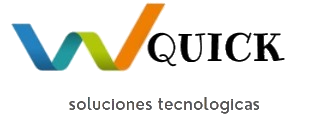
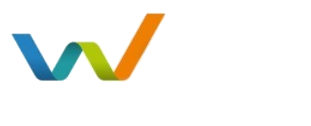
modificaci´on styles.css

Changed region(s): [[0.0289, 0.0259, 0.926, 0.6466], [0.2026, 0.8276, 0.8392, 0.9828]]

diff --git a/WQuick/app/usuarios/templates/usuarios/registrar.html b/WQuick/app/usuarios/templates/usuarios/registrar.html
@@ -12,17 +12,17 @@
    <div class="container-fluid center" style="padding-top: 2%;padding-bottom: 3%;">
       <div class="row">
          <div class="col s12 m6 offset-m3 l10 offset-l1 xl6 offset-xl3">
-            <div class="card white">
-               <div class="white">
-                  <span class="card-title black-text">
+            <div class="card">
+               <div>
+                  <span class="card-title">
                      <br>
                      <a href="/">
                         <div class="card-imag responsive-img">
-                           <img src="{% static 'img/Logo-large.jpeg' %}" alt="imagen dañada" style="width: 50%; max-width: 250px;">
+                           <img src="{% static 'img/transparencia.png' %}" alt="imagen dañada" style="width: 50%; max-width: 250px;">
                         </div>
                      </a>
 
-                     <span style="color: #000;font-size: 20px;font-weight: bold;">
+                     <span style="color: white;font-size: 20px;font-weight: bold;">
                         Regístrate
                      </span>
                   </span>
@@ -41,7 +41,7 @@
                         </div>
                         {% endif %}
                         <div class="col s3">
-                           <label style="color: #000;font-family: fuente1;font-size: 18px; font-weight: bold;">Nombre</label>
+                           <label style="color: white;font-family: fuente1;font-size: 18px; font-weight: bold;">Nombre</label>
                         </div>
                         <div class="col s9">
                            {{form.nombre}}
@@ -56,7 +56,7 @@
                         </div>
                         {% endif %}
                         <div class="col s3">
-                           <label style="color: #000;font-family: fuente1;font-size: 18px; font-weight: bold;">Correo</label>
+                           <label style="color: white;font-family: fuente1;font-size: 18px; font-weight: bold;">Correo</label>
                         </div>
                         <div class="col s9">
                            {{form.correo}}
@@ -66,7 +66,7 @@
                      <div class="row">
                         <div class="col s3">
                            <label for="txt_clave"
-                              style="color: #000;font-family: fuente1;font-size: 18px; font-weight: bold;">Contraseña</label>
+                              style="color: white;font-family: fuente1;font-size: 18px; font-weight: bold;">Contraseña</label>
                         </div>
                         <div class="col s9">
                            {{form.password1}}
@@ -81,7 +81,7 @@
                         </div>
                         {% endif %}
                         <div class="col s3">
-                           <label style="color: #000;font-family: fuente1; font-size: 18px; font-weight: bold;">Confirmar Contraseña</label>
+                           <label style="color: white;font-family: fuente1; font-size: 18px; font-weight: bold;">Confirmar Contraseña</label>
                         </div>
                         <div class="col s9">
                            {{form.password2}}
@@ -93,7 +93,7 @@
                      </div>
                      <div>
                         <label for="chk_terminos">
-                           <input class="filled-in" type="checkbox" id="chk_terminos">
+                           <input class="" type="checkbox" id="chk_terminos">
                            <span><a href="" style="font-weight: bold;">Aceptar terminos y condiciones del servicio</a></span>
                         </label>
                      </div>

diff --git a/WQuick/app/usuarios/templates/usuarios/login.html b/WQuick/app/usuarios/templates/usuarios/login.html
@@ -11,13 +11,13 @@
 
    <div class="Centro">
 
-      <div class="Sombras FondoBlanco">
+      <div class="Sombras FondoBlanco" style="background-color: #424242;">
          <a href="/">
             <div style="text-align: center;">
-               <img src="../../../static/img/transparencia.png" style="width: 40%;">
+               <img src="{% static 'img/transparencia.png' %}" style="width: 40%;">
             </div>
          </a>
-         <span style="color: #000;font-size: 20px;font-weight: bold;">
+         <span style="color: white;font-size: 20px;font-weight: bold;">
             Iniciar Sesión
          </span><br>
          <div class="Bajar">
@@ -41,13 +41,13 @@
 
                   <table style="border-collapse: inherit;">
                      <tr>
-                        <th><label style="color: #000;font-size: 15px;">Usuario o correo</label></th>
+                        <th><label style="color:white;font-size: 15px;">Usuario o correo</label></th>
                         <th>
                            {{ form.username }}
                         </th>
                      </tr>
                      <tr>
-                        <th><label style="color: #000;font-size: 15px;">Contraseña</label></th>
+                        <th><label style="color: white;font-size: 15px;">Contraseña</label></th>
                         <th>
                            {{ form.password }}
                         </th>

diff --git a/WQuick/app/app/templates/frames/navbar.html b/WQuick/app/app/templates/frames/navbar.html
@@ -1,5 +1,5 @@
 {% load static %}
-<div class="navbar-fixed">
+<div class="navbar-fixed" style="overflow: hidden;">
     <nav class="nav-wrapper black">
         <div class="nav-wrapper" style="margin-left: 20px; margin-right: 20px;">
             <a href="/" id="logo" class="left">

diff --git a/WQuick/app/usuarios/forms.py b/WQuick/app/usuarios/forms.py
@@ -19,11 +19,11 @@ class FrmRegistar(UserCreationForm):
     #    -  admin: contiene el valor booleano para el administrador
     password1 = forms.CharField(widget=forms.PasswordInput())
     password1.widget.attrs['id'] = 'txt_clave'
-    password1.widget.attrs['style'] = 'margin-left:17px; border-radius: 2px;width: 77%;border: 1px solid #000;height: 5vh;'
+    password1.widget.attrs['style'] = 'background-color: #212121; margin-left:17px; border-radius: 2px;width: 77%;border: 1px solid #000;height: 5vh;'
 
     password2 = forms.CharField(widget=forms.PasswordInput())
     password2.widget.attrs['id'] = 'txt_cclave'
-    password2.widget.attrs['style'] = 'margin-left:17px; border-radius: 2px;width: 77%;border: 1px solid #000;height: 5vh;'
+    password2.widget.attrs['style'] = 'background-color: #212121; margin-left:17px; border-radius: 2px;width: 77%;border: 1px solid #000;height: 5vh;'
 
     admin = forms.BooleanField(initial=False, required=False)
     admin.widget.attrs['class'] = 'filled-in'
@@ -37,7 +37,7 @@ class FrmRegistar(UserCreationForm):
         widgets = {
             'nombre': forms.TextInput(
                 attrs={
-                    'class': 'black-text',
+                    'class': 'grey darken-4',
                     'id': 'txt_usuario',
                     'type': 'text',
                     'style': 'margin-left:17px; border-radius: 2px;width: 77%;border: 1px solid #000;height: 5vh;',
@@ -47,7 +47,7 @@ class FrmRegistar(UserCreationForm):
             ),
             'correo': forms.TextInput(
                 attrs={
-                    'class': 'black-text',
+                    'class': 'grey darken-4',
                     'id': 'txt_correo',
                     'type': 'text',
                     'style': 'margin-left:17px; border-radius: 2px;width: 77%;border: 1px solid #000;height: 5vh;',
@@ -90,11 +90,11 @@ class FrmLogin(AuthenticationForm):
     #    -  password: contraseña del usuario que ingresara al programa
     def __init__(self, *args, **kwargs):
         super(FrmLogin, self).__init__(*args, **kwargs)
-        self.fields['username'].widget.attrs['class'] = 'validate black-text'
+        self.fields['username'].widget.attrs['class'] = 'white-text grey darken-3'
         self.fields['username'].widget.attrs['id'] = 'txt_usuario'
         self.fields['username'].widget.attrs['style'] = 'border-radius: 2px;width: 60%;border: 1px solid #000;height: 5vh;'
 
-        self.fields['password'].widget.attrs['class'] = 'validate black-text'
+        self.fields['password'].widget.attrs['class'] = 'white-text grey darken-3'
         self.fields['password'].widget.attrs['id'] = 'txt_clave'
         self.fields['password'].widget.attrs['style'] = 'border-radius: 2px;width: 60%;border: 1px solid #000;height: 5vh;'
 
